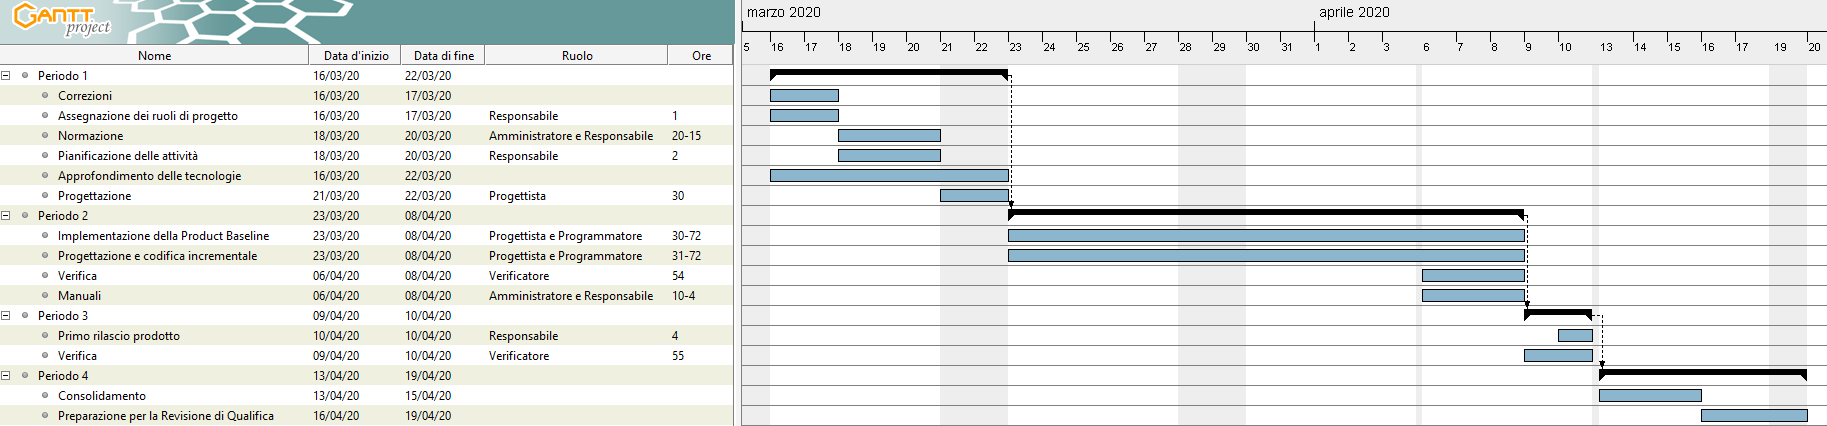
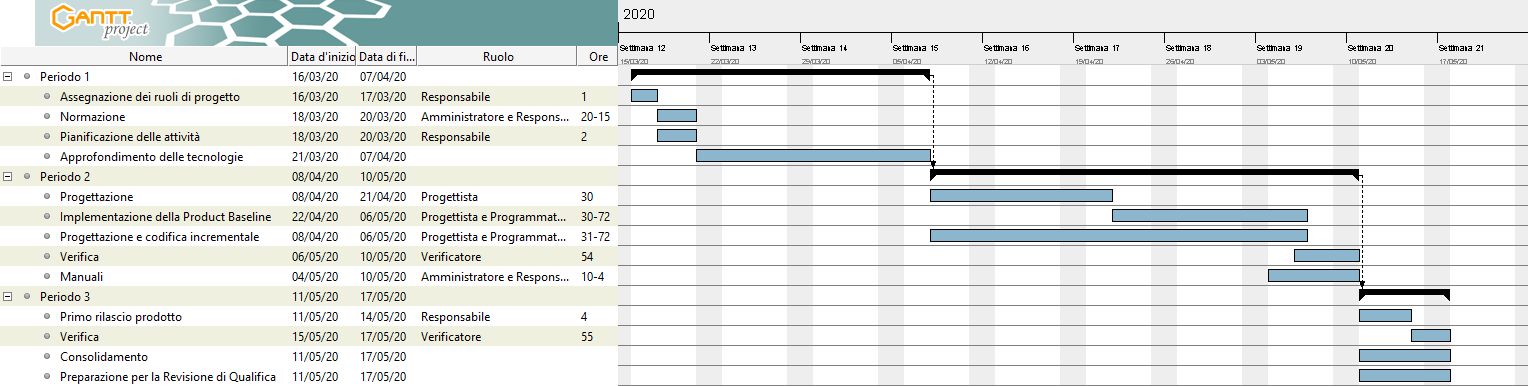
Aggiornato Gantt progettazione dettaglio e codifica 182

diff --git a/DocumentazioneEsterna/PianoDiProgetto/Sezioni/Sottosezioni/Pianificazione/PianificazioneProgettazioneDettaglio.tex b/DocumentazioneEsterna/PianoDiProgetto/Sezioni/Sottosezioni/Pianificazione/PianificazioneProgettazioneDettaglio.tex
@@ -33,7 +33,7 @@ Dal 2020-04-08 al 2020-05-11
 	La loro realizzazione viene svolta seguendo lo standard \glo{UML} ed è necessaria per la progettazione delle \glo{REST API}, che seguono invece lo standard \glo{OpenAPI}.
 	Una volta che la progettazione di dettaglio di tutto ciò che permette di soddisfare i requisiti degli incrementi è stata completata, si può procedere alla codifica delle tre parti del prodotto software da realizzare: app, web-app, server.
 	L'obiettivo del gruppo in questa fase è progettare almeno gli incrementi con i requisiti obbligatori per poter soddisfare gli \glo{stakeholder};
-	\item \textbf{Verifica}: \glo{Verifiche} (tramite i test) per assicurarsi della bontà dei requisiti implementati;
+	\item \textbf{Verifica}: \glo{Verifiche} per assicurarsi della bontà dei requisiti implementati;
 	\item \textbf{Manuali}: Stesura di almeno una prima versione del Manuale Utente e del Manuale Manutentore in relazione alle funzionalità di base del sistema secondo le regole indicate in \NdP{}.
 \end{itemize}
 \paragraph{Milestone sull'ITS di GitHub}
@@ -49,7 +49,7 @@ Dal 2020-05-11 al 2020-05-18
 \begin{itemize}
 	\item \textbf{Primo rilascio del prodotto}: Pubblicazione del prodotto eseguibile all'interno dei \glo{repository} del gruppo;
 	\item \textbf{Verifica}: \glo{Verifica} dell'andamento del team in relazione alle tempistiche e allo svolgimento dei compiti assegnati.
-	\item \textbf{Consolidamento}: Ogni membro si prende del tempo per ripassare tutto il lavoro svolto e per studiare il necessario per affrontare al meglio le fasi successive;
+	\item \textbf{Consolidamento}: Ogni membro si prende del tempo per ripassare tutto il lavoro svolto e per studiare il necessario per affrontare al meglio la successiva e ultima fase;
 	\item \textbf{Preparazione per la Revisione di Qualifica}: Il gruppo produce il materiale necessario da esporre alla presentazione pubblica della propria proposta.
 \end{itemize}
 \paragraph{Milestone sull'ITS di GitHub}
